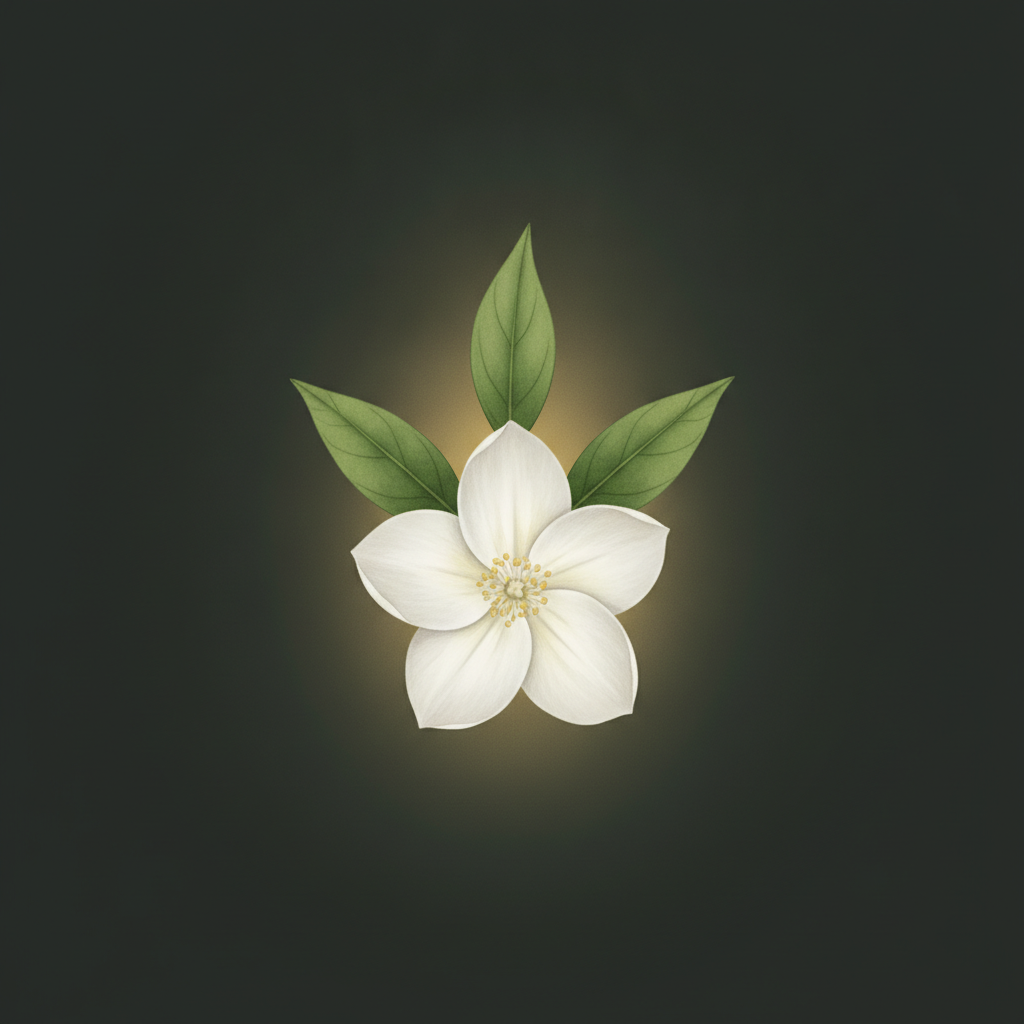
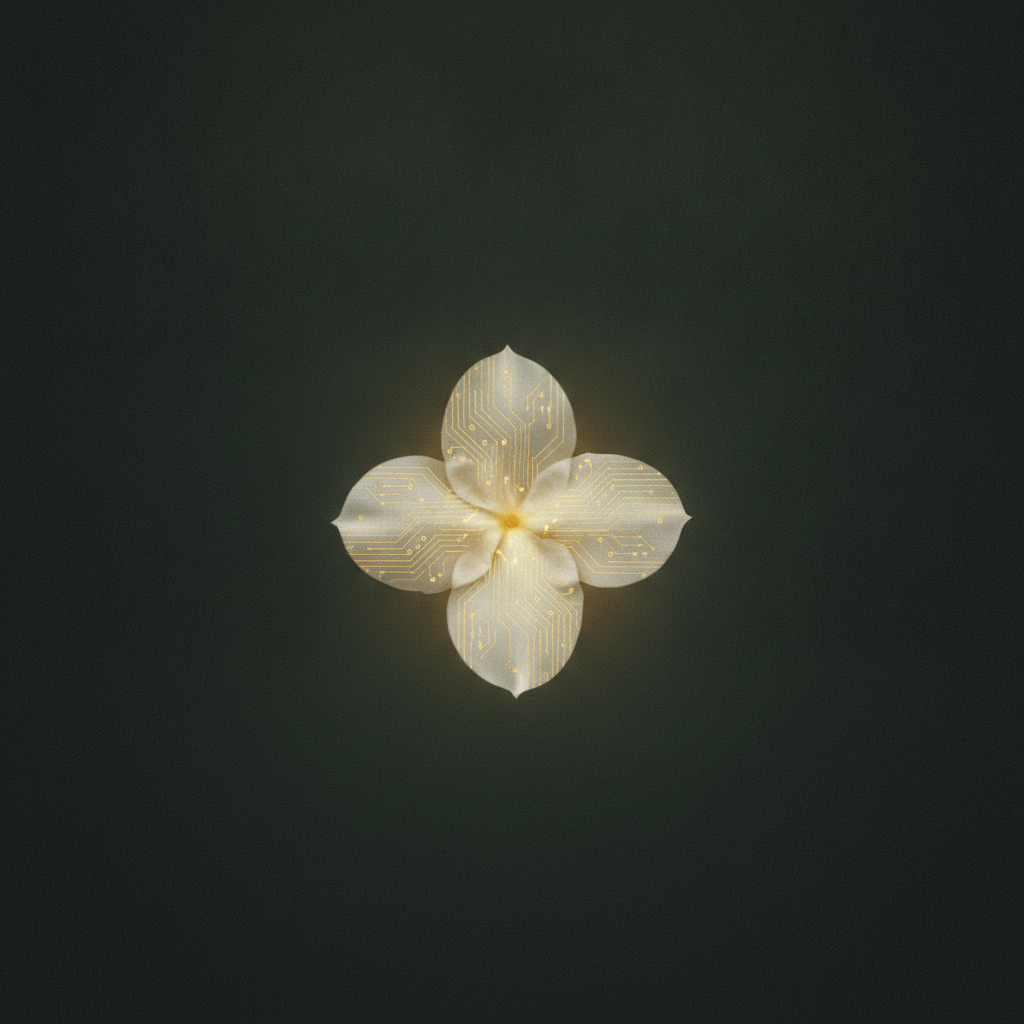
newui: cinematic hero with count-up, bento dashboard, refreshed imagery
- Hero: theme-aware jasmine image (dark + light variants), token-driven scrim,
  serif greeting, count-up portfolio value, rAF parallax, reduced-motion safe.
- Dashboard rebuilt as a bento grid (allocation + stat stack + gain/loss +
  movers) with ScrollReveal, EmptyState, and the FirstLook callout.
- Regenerated cohesive Gemini image set (new art direction + light-mode hero).

Changed region(s): [[0.2812, 0.2188, 0.7188, 0.8125]]

diff --git a/components/dashboard-client.tsx b/components/dashboard-client.tsx
@@ -1,13 +1,16 @@
 "use client";
 
 import useSWR from "swr";
+import Link from "next/link";
+import { ArrowUpRight, Sparkles, Eye } from "lucide-react";
 import type { Holding, WatchItem } from "@/lib/db";
 import { DataBadge, DataTimestamp } from "./data-state";
 import { AllocationDonut } from "./charts/AllocationDonut";
 import { GainLossBar } from "./charts/GainLossBar";
 import { QuoteProbe } from "./quote-probe";
+import { Hero } from "./hero";
+import { GlassCard, EmptyState, Button, ScrollReveal } from "./ui/primitives";
 import type { DataResult, Quote } from "@/lib/providers/types";
-import Link from "next/link";
 
 async function fetchQuotes(symbols: string[]): Promise<Record<string, DataResult<Quote>>> {
   const entries = await Promise.all(
@@ -45,7 +48,7 @@ export function DashboardClient() {
     const value = price != null ? price * h.shares : null;
     const cost = h.avgCost * h.shares;
     const gain = value != null ? value - cost : null;
-    const gainPct = value != null && cost > 0 ? ((gain!) / cost) * 100 : null;
+    const gainPct = value != null && cost > 0 ? (gain! / cost) * 100 : null;
     return { h, price, value, gain, gainPct };
   });
 
@@ -54,151 +57,126 @@ export function DashboardClient() {
   const totalGain = total > 0 && totalCost > 0 ? total - totalCost : null;
   const anySource = quotes ? Object.values(quotes)[0]?.source : undefined;
 
-  const slices = valued
-    .filter((v) => v.value != null && total > 0)
-    .map((v) => ({ symbol: v.h.symbol, value: (v.value! / total) * 100 }));
-
-  const gainLossRows = valued
-    .filter((v) => v.gain != null && v.gainPct != null)
-    .map((v) => ({ symbol: v.h.symbol, gain: v.gain!, gainPct: v.gainPct! }));
-
-  const winners = [...gainLossRows].sort((a, b) => b.gain - a.gain).slice(0, 5);
-  const losers = [...gainLossRows].sort((a, b) => a.gain - b.gain).slice(0, 5);
-
+  const slices = valued.filter((v) => v.value != null && total > 0).map((v) => ({ symbol: v.h.symbol, value: (v.value! / total) * 100 }));
+  const gainLossRows = valued.filter((v) => v.gain != null && v.gainPct != null).map((v) => ({ symbol: v.h.symbol, gain: v.gain!, gainPct: v.gainPct! }));
+  const winners = [...gainLossRows].sort((a, b) => b.gain - a.gain).slice(0, 4);
+  const losers = [...gainLossRows].sort((a, b) => a.gain - b.gain).slice(0, 4);
   const hasHoldings = holdings.length > 0;
+
+  const firstLook = !hasHoldings
+    ? null
+    : totalGain != null && totalGain < 0
+      ? `Your portfolio is down $${Math.abs(totalGain).toFixed(0)} overall — check which holdings are dragging it.`
+      : slices.some((s) => s.value > 40)
+        ? "One stock is over 40% of your portfolio — are you comfortable with that concentration?"
+        : "Portfolio looks healthy. Scan the gain/loss tile for positions worth trimming or adding.";
 
   return (
     <div className="space-y-6">
-      {/* What to look at first */}
-      {hasHoldings && total > 0 ? (
-        <div className="rounded-xl border border-brand-500/20 bg-brand-500/5 p-4 text-sm text-brand-100">
-          <span className="font-semibold">What should I look at first?</span>{" "}
-          {totalGain != null && totalGain < 0
-            ? `Your portfolio is down $${Math.abs(totalGain).toFixed(0)} overall — check which holdings are dragging it and review their thesis.`
-            : slices.some((s) => s.value > 40)
-              ? `One stock is over 40% of your portfolio — are you comfortable with that concentration?`
-              : `Portfolio looks healthy. Check the gain/loss chart for any positions worth trimming or adding to.`}
-        </div>
-      ) : (
-        <div className="rounded-xl border border-brand-500/20 bg-brand-500/5 p-4 text-sm text-brand-100">
-          <span className="font-semibold">What should I look at first?</span>{" "}
-          Add holdings in the <Link href="/holdings" className="underline">Holdings tab</Link> — then this dashboard will show your portfolio value, allocation, and gain/loss in real time.
-        </div>
+      <Hero total={total} totalGain={totalGain} badge={anySource ? <DataBadge source={anySource} /> : undefined} />
+
+      {!hasHoldings && (
+        <EmptyState
+          title="Your dashboard is waiting for its first holding"
+          hint="Add positions in Holdings — or sync E*TRADE / Robinhood — and this dashboard fills with your live value, allocation, and gain/loss."
+          action={<Link href="/holdings"><Button variant="gold">Add holdings</Button></Link>}
+        />
       )}
 
-      {/* Portfolio summary */}
       {hasHoldings && (
-        <div className="stagger grid grid-cols-1 gap-4 sm:grid-cols-3">
-          <SummaryCard
-            label="Portfolio value"
-            value={total > 0 ? `$${total.toLocaleString(undefined, { maximumFractionDigits: 0 })}` : "—"}
-            sub={anySource ? <DataBadge source={anySource} /> : undefined}
-          />
-          <SummaryCard
-            label="Total gain / loss"
-            value={
-              totalGain != null
-                ? `${totalGain >= 0 ? "▲ up" : "▼ down"} $${Math.abs(totalGain).toLocaleString(undefined, { maximumFractionDigits: 0 })}`
-                : "—"
-            }
-            valueClass={totalGain == null ? "" : totalGain >= 0 ? "text-emerald-300" : "text-rose-300"}
-          />
-          <SummaryCard label="Holdings" value={`${holdings.length} position${holdings.length !== 1 ? "s" : ""}`}
-            sub={<Link href="/holdings" className="text-xs text-brand-400 underline">Manage</Link>} />
-        </div>
+        <ScrollReveal>
+          {/* What to look at first */}
+          {firstLook && (
+            <div className="mb-5 rounded-md border px-4 py-3 text-sm" style={{ borderColor: "var(--hairline-gold)", background: "var(--accent-soft)", color: "var(--text)" }}>
+              <span className="font-semibold text-accent">What to look at first — </span>
+              <span className="text-ink-dim">{firstLook}</span>
+            </div>
+          )}
+
+          {/* Bento grid */}
+          <div className="grid auto-rows-[minmax(0,auto)] grid-cols-1 gap-4 lg:grid-cols-6">
+            {/* Allocation — wide */}
+            <GlassCard hover className="lg:col-span-4">
+              <AllocationDonut slices={slices} />
+            </GlassCard>
+
+            {/* Stat stack */}
+            <div className="grid gap-4 lg:col-span-2">
+              <StatTile label="Total gain / loss"
+                value={totalGain != null ? `${totalGain >= 0 ? "▲" : "▼"} $${Math.abs(totalGain).toLocaleString(undefined, { maximumFractionDigits: 0 })}` : "—"}
+                tone={totalGain == null ? "neutral" : totalGain >= 0 ? "positive" : "negative"} />
+              <StatTile label="Holdings" value={`${holdings.length}`} href="/holdings" hrefLabel="Manage" />
+              <StatTile label="Watchlist" value={`${watchlist.length}`} href="/watchlist" hrefLabel="View" icon={<Eye size={14} />} />
+            </div>
+
+            {/* Gain/loss — wide */}
+            <GlassCard hover className="lg:col-span-4">
+              <GainLossBar holdings={gainLossRows} />
+            </GlassCard>
+
+            {/* Winners / losers stacked */}
+            <div className="grid gap-4 lg:col-span-2">
+              <RankCard title="Top movers up" rows={winners} positive />
+              <RankCard title="Top movers down" rows={losers} positive={false} />
+            </div>
+          </div>
+
+          {quotes && <div className="mt-3"><DataTimestamp asOf={Object.values(quotes)[0]?.asOf ?? null} /></div>}
+        </ScrollReveal>
       )}
 
-      {/* Charts: allocation + gain/loss */}
-      {hasHoldings && (
-        <div className="grid grid-cols-1 gap-4 lg:grid-cols-2">
-          <AllocationDonut slices={slices} />
-          <GainLossBar holdings={gainLossRows} />
+      {/* Market overview */}
+      <ScrollReveal>
+        <div className="flex items-center gap-2">
+          <Sparkles size={15} className="text-accent" />
+          <h2 className="text-sm font-medium text-ink-dim">Market overview</h2>
         </div>
-      )}
-
-      {/* Top winners / losers */}
-      {gainLossRows.length > 0 && (
-        <div className="grid grid-cols-1 gap-4 sm:grid-cols-2">
-          <RankCard title="Top winners" rows={winners} positive />
-          <RankCard title="Top losers" rows={losers} positive={false} />
-        </div>
-      )}
-
-      {/* Timestamps */}
-      {quotes && (
-        <div>
-          <DataTimestamp asOf={Object.values(quotes)[0]?.asOf ?? null} />
-        </div>
-      )}
-
-      {/* Market overview — the three gauges traders glance at first:
-          SPY = the whole US large-cap market (S&P 500), QQQ = big tech (Nasdaq-100),
-          VIX = the market's "fear gauge" (expected volatility; high = nervous). */}
-      <div>
-        <h2 className="mb-1 text-sm font-medium text-ink-dim">Market overview</h2>
-        <p className="mb-3 text-[11px] text-ink-faint">
-          A quick read on the overall market: the S&amp;P 500, big tech, and the fear gauge.
-        </p>
+        <p className="mb-3 mt-0.5 text-[11px] text-ink-faint">A quick read on the overall market: the S&amp;P 500, big tech, and the fear gauge.</p>
         <div className="grid grid-cols-1 gap-3 sm:grid-cols-3">
           <QuoteProbe symbol="SPY" label="S&P 500 (SPY)" hint="The 500 largest US companies — the broad market." />
           <QuoteProbe symbol="QQQ" label="Nasdaq-100 (QQQ)" hint="The 100 biggest non-financial tech-heavy names." />
           <QuoteProbe symbol="^VIX" label="VIX — fear gauge" hint="Expected 30-day volatility. Higher = more fear; spikes on selloffs." />
         </div>
-      </div>
-
-      {/* Watchlist count */}
-      {watchlist.length > 0 && (
-        <div className="rounded-lg border border-white/5 bg-black/20 p-3 text-sm text-ink-dim">
-          You have <span className="text-ink">{watchlist.length}</span> stocks on your{" "}
-          <Link href="/watchlist" className="text-brand-400 underline">watchlist</Link>.
-        </div>
-      )}
+      </ScrollReveal>
 
       <p className="text-[11px] text-ink-faint">Research and educational analysis, not financial advice.</p>
     </div>
   );
 }
 
-function SummaryCard({
-  label, value, sub, valueClass = "text-ink",
-}: {
-  label: string; value: string; sub?: React.ReactNode; valueClass?: string;
+function StatTile({ label, value, tone = "neutral", href, hrefLabel, icon }: {
+  label: string; value: string; tone?: "neutral" | "positive" | "negative"; href?: string; hrefLabel?: string; icon?: React.ReactNode;
 }) {
+  const color = tone === "positive" ? "var(--positive)" : tone === "negative" ? "var(--negative)" : "var(--text)";
   return (
-    <div className="card-hover rounded-xl glass p-4">
-      <div className="text-xs text-ink-faint uppercase tracking-wide">{label}</div>
-      <div className={`mt-1 text-xl font-semibold ${valueClass}`}>{value}</div>
-      {sub && <div className="mt-1">{sub}</div>}
-    </div>
+    <GlassCard hover className="flex flex-col justify-between">
+      <div className="flex items-center justify-between text-[11px] uppercase tracking-wide text-ink-faint">
+        <span>{label}</span>{icon}
+      </div>
+      <div className="mt-1 font-mono text-2xl font-semibold tnum" style={{ color }}>{value}</div>
+      {href && <Link href={href} className="mt-1 inline-flex items-center gap-1 text-xs text-accent hover:underline">{hrefLabel} <ArrowUpRight size={12} /></Link>}
+    </GlassCard>
   );
 }
 
-function RankCard({
-  title, rows, positive,
-}: {
-  title: string;
-  rows: { symbol: string; gain: number; gainPct: number }[];
-  positive: boolean;
-}) {
+function RankCard({ title, rows, positive }: { title: string; rows: { symbol: string; gain: number; gainPct: number }[]; positive: boolean }) {
   return (
-    <div className="card-hover rounded-xl glass p-4">
+    <GlassCard hover>
       <div className="text-sm font-semibold text-ink">{title}</div>
       {rows.length === 0 ? (
         <p className="mt-2 text-sm text-ink-faint">No data.</p>
       ) : (
-        <ul className="mt-2 space-y-1">
+        <ul className="mt-2 space-y-1.5">
           {rows.map((r) => (
             <li key={r.symbol} className="flex items-center justify-between text-sm">
-              <Link href={`/holdings/${r.symbol}`} className="font-medium text-brand-300 hover:underline">
-                {r.symbol}
-              </Link>
-              <span className={positive ? "text-emerald-400" : "text-rose-400"}>
+              <Link href={`/holdings/${r.symbol}`} className="font-mono font-medium text-accent hover:underline">{r.symbol}</Link>
+              <span className="font-mono tnum text-xs" style={{ color: positive ? "var(--positive)" : "var(--negative)" }}>
                 {r.gain >= 0 ? "▲" : "▼"} ${Math.abs(r.gain).toFixed(0)} ({r.gainPct.toFixed(1)}%)
               </span>
             </li>
           ))}
         </ul>
       )}
-    </div>
+    </GlassCard>
   );
 }

diff --git a/components/hero.tsx b/components/hero.tsx
@@ -1,60 +1,69 @@
 "use client";
 
-import { useEffect, useState } from "react";
+import { useEffect, useRef, useState } from "react";
+import { CountUp } from "./ui/primitives";
 
-// Dashboard hero band: cinematic jasmine image (Gemini-generated) with a
-// gradient scrim, serif greeting, and a subtle scroll parallax on the image.
-export function Hero({ subtitle }: { subtitle?: string }) {
+// Cinematic dashboard hero: theme-aware jasmine image, gradient scrim, serif
+// greeting, and a hero stat that counts up. Parallax via rAF, reduced-motion safe.
+export function Hero({
+  total, totalGain, badge,
+}: { total?: number | null; totalGain?: number | null; badge?: React.ReactNode }) {
   const [offset, setOffset] = useState(0);
+  const rafRef = useRef<number>();
 
   useEffect(() => {
-    const reduce = window.matchMedia("(prefers-reduced-motion: reduce)").matches;
-    if (reduce) return;
-    const onScroll = () => setOffset(window.scrollY * 0.25);
+    if (window.matchMedia("(prefers-reduced-motion: reduce)").matches) return;
+    const onScroll = () => {
+      if (rafRef.current) return;
+      rafRef.current = requestAnimationFrame(() => {
+        setOffset(window.scrollY * 0.22);
+        rafRef.current = undefined;
+      });
+    };
     window.addEventListener("scroll", onScroll, { passive: true });
-    return () => window.removeEventListener("scroll", onScroll);
+    return () => { window.removeEventListener("scroll", onScroll); if (rafRef.current) cancelAnimationFrame(rafRef.current); };
   }, []);
 
   const hour = new Date().getHours();
   const greeting = hour < 12 ? "Good morning" : hour < 18 ? "Good afternoon" : "Good evening";
+  const hasValue = typeof total === "number" && total > 0;
+  const gainUp = (totalGain ?? 0) >= 0;
 
   return (
-    <div className="relative mb-8 overflow-hidden rounded-3xl border border-white/10 shadow-glass">
-      {/* Background image with parallax */}
+    <div className="relative overflow-hidden rounded-lg border border-hairline shadow-glass">
+      {/* Theme-aware hero image (light variant swaps via CSS below) */}
       <div
-        className="absolute inset-0 animate-hero-zoom bg-cover bg-center"
-        style={{
-          backgroundImage: "url('/images/hero-jasmine.jpg')",
-          transform: `translateY(${offset}px) scale(1.05)`,
-          willChange: "transform",
-        }}
+        className="hero-img absolute inset-0 animate-hero-zoom bg-cover bg-center"
+        style={{ transform: `translateY(${offset}px) scale(1.06)`, willChange: "transform" }}
         aria-hidden
       />
-      {/* Scrim: darken left/bottom for text legibility, fade the top white strip */}
-      <div
-        className="absolute inset-0"
-        style={{
-          background:
-            "linear-gradient(90deg, rgba(10,14,12,0.92) 0%, rgba(10,14,12,0.65) 40%, rgba(10,14,12,0.15) 100%)",
-        }}
-        aria-hidden
-      />
-      <div
-        className="absolute inset-x-0 top-0 h-16"
-        style={{ background: "linear-gradient(180deg, #0a0e0c 0%, transparent 100%)" }}
-        aria-hidden
-      />
+      {/* Scrim for legibility (token-driven so it works in both themes) */}
+      <div className="hero-scrim absolute inset-0" aria-hidden />
 
-      {/* Content */}
       <div className="relative px-7 py-12 md:px-10 md:py-16">
-        <div className="text-xs uppercase tracking-[0.35em] text-brand-400/80">{greeting}</div>
-        <h1 className="mt-2 font-display text-4xl font-semibold leading-tight text-[#ece9e0] md:text-5xl">
+        <div className="text-xs uppercase tracking-[0.35em]" style={{ color: "var(--accent)" }}>{greeting}</div>
+        <h1 className="mt-2 font-display text-4xl font-semibold leading-tight md:text-5xl">
           <span className="text-shimmer">Noor Investing Lab</span>
         </h1>
-        <p className="mt-3 max-w-md text-sm leading-relaxed text-ink-dim">
-          {subtitle ??
-            "Your portfolio, researched and explained — live data, AI analysis, and a clear-eyed view of risk."}
-        </p>
+
+        {hasValue ? (
+          <div className="mt-5">
+            <div className="text-[11px] uppercase tracking-wide text-ink-dim">Portfolio value</div>
+            <div className="mt-1 flex flex-wrap items-baseline gap-3">
+              <CountUp value={total!} prefix="$" className="text-4xl font-semibold text-ink md:text-5xl" />
+              {typeof totalGain === "number" && (
+                <span className="font-mono text-sm font-medium" style={{ color: gainUp ? "var(--positive)" : "var(--negative)" }}>
+                  {gainUp ? "▲" : "▼"} ${Math.abs(totalGain).toLocaleString(undefined, { maximumFractionDigits: 0 })}
+                </span>
+              )}
+              {badge}
+            </div>
+          </div>
+        ) : (
+          <p className="mt-3 max-w-md text-sm leading-relaxed text-ink-dim">
+            Your portfolio, researched and explained — live data, AI analysis, and a clear-eyed view of risk.
+          </p>
+        )}
       </div>
     </div>
   );

diff --git a/app/globals.css b/app/globals.css
@@ -160,6 +160,17 @@ body {
 /* ── Typography ────────────────────────────────────────────────────────────── */
 .font-display { font-family: var(--font-display); letter-spacing: -0.015em; font-optical-sizing: auto; }
 
+/* ── Hero image + scrim (theme-aware) ──────────────────────────────────────── */
+.hero-img { background-image: url("/images/hero-jasmine.jpg"); }
+html.light .hero-img { background-image: url("/images/hero-jasmine-light.jpg"); }
+.hero-scrim {
+  background: linear-gradient(90deg, var(--bg) 0%, color-mix(in oklab, var(--bg) 70%, transparent) 42%, color-mix(in oklab, var(--bg) 12%, transparent) 100%);
+}
+.hero-scrim::after {
+  content: ""; position: absolute; inset: 0;
+  background: linear-gradient(180deg, var(--bg) 0%, transparent 22%, transparent 78%, color-mix(in oklab, var(--bg) 55%, transparent) 100%);
+}
+
 /* ── Glass surfaces ──────────────────────────────────────────────────────────
    Gradient hairline border via mask trick + layered depth. */
 .glass {